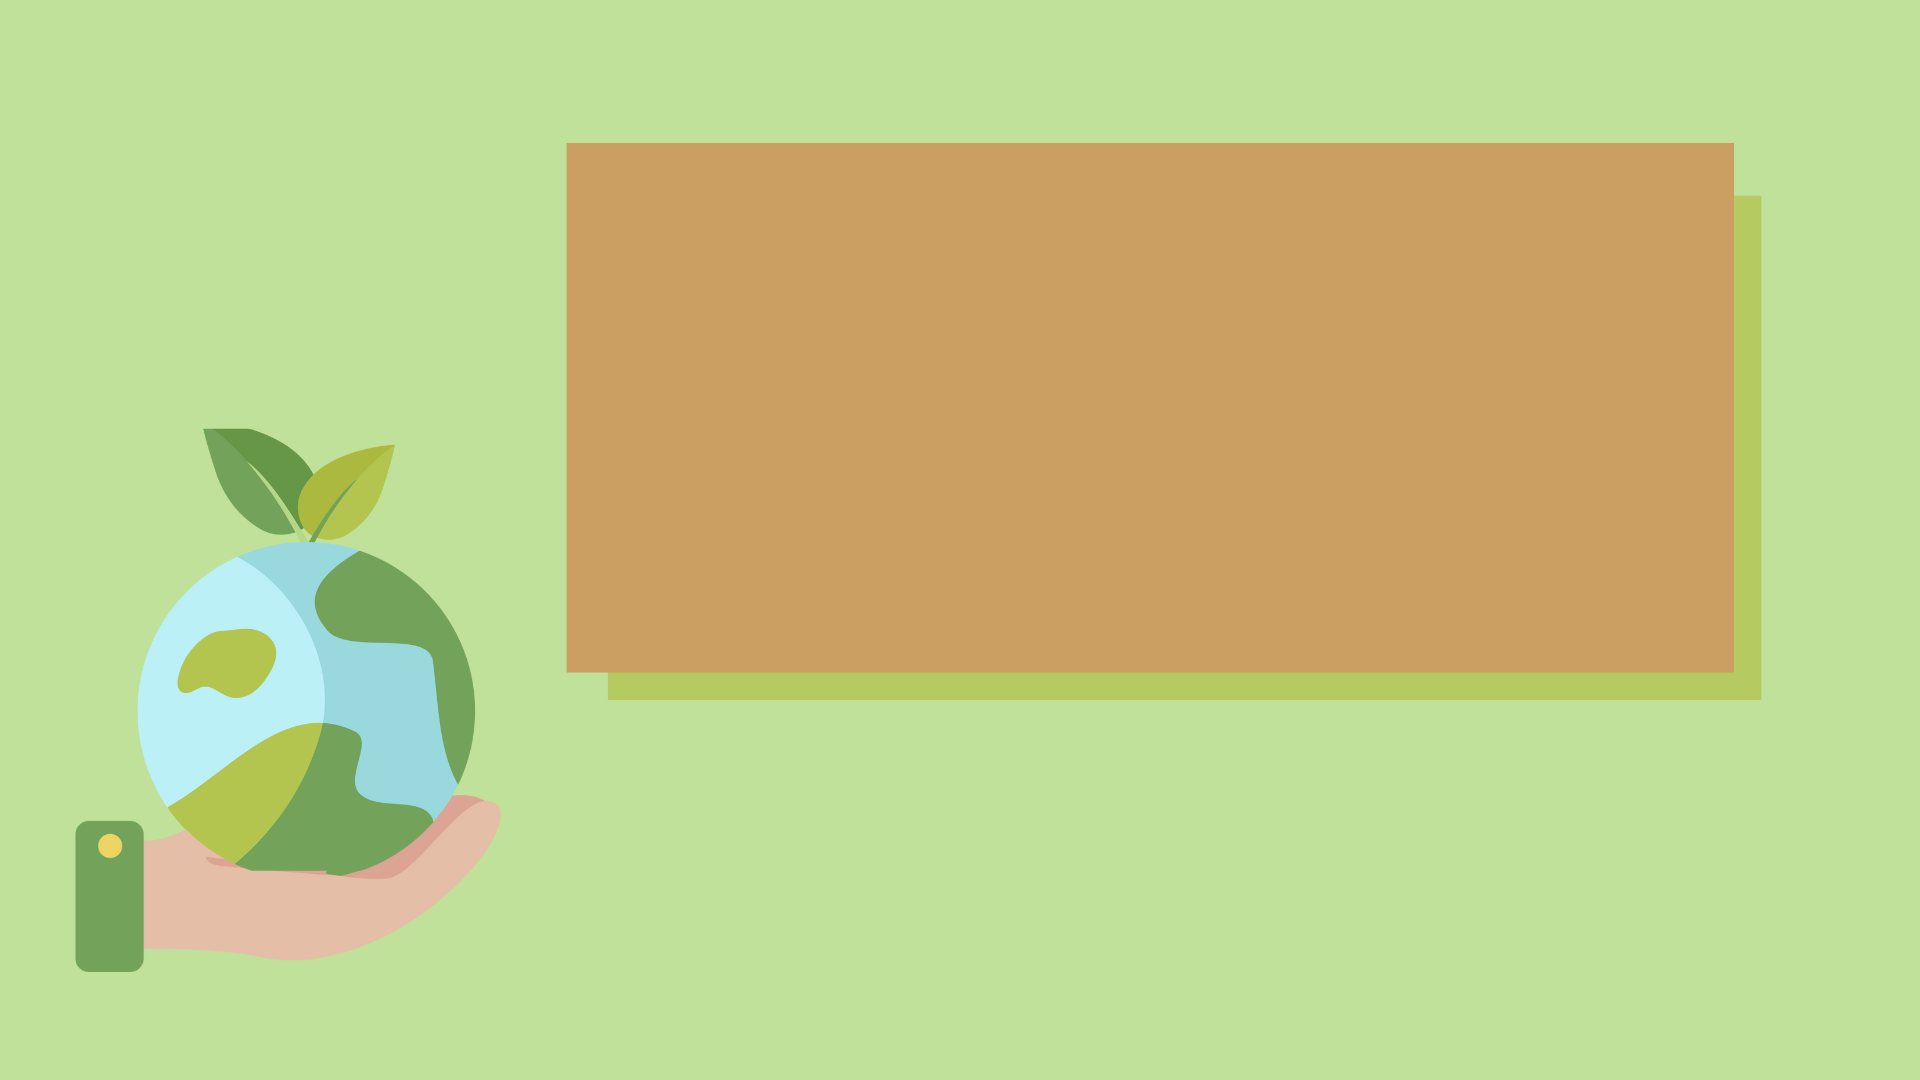
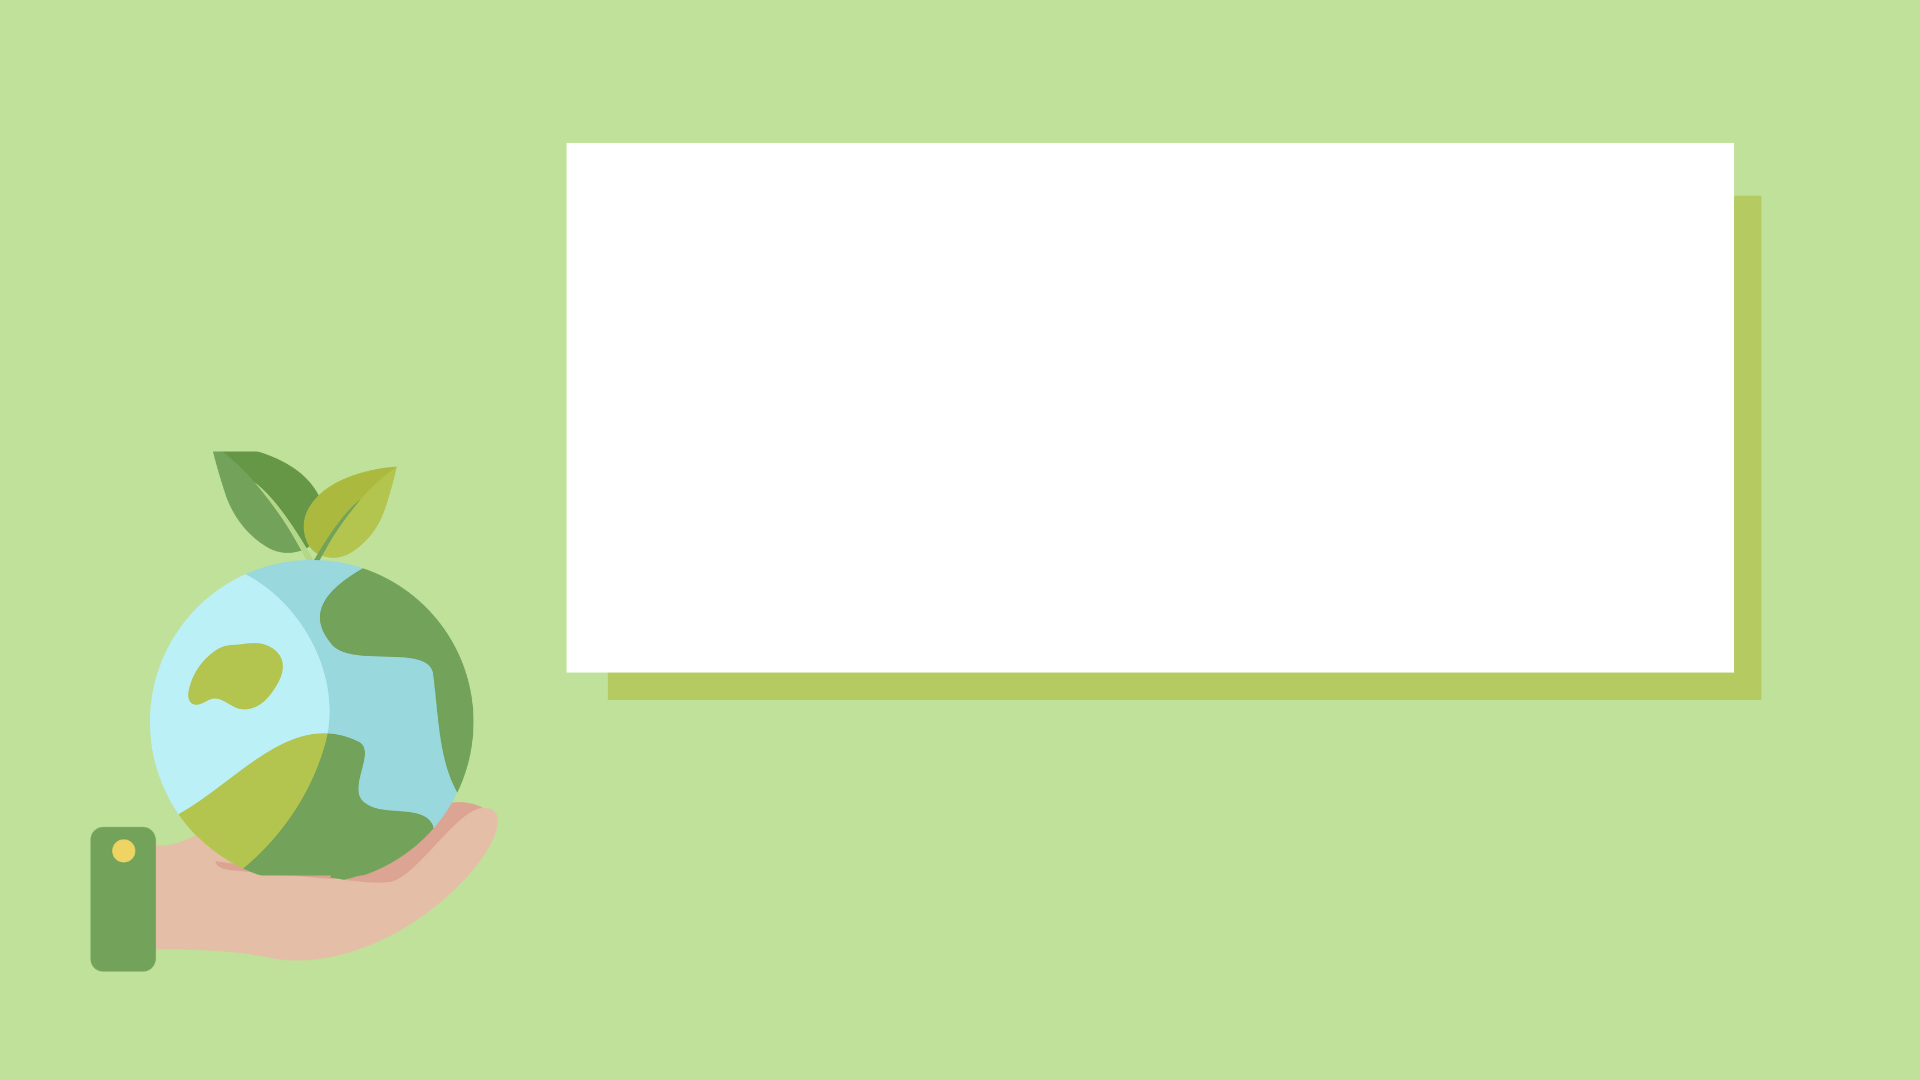
P1: Added graphics, rewrote some texts, included restart option.

diff --git a/projects/project1/js/script.js b/projects/project1/js/script.js
@@ -2,15 +2,24 @@
  * Project 1
  * Dorsa zare
  * 
- * Make title page pretty
- * Make ending pages Pretty
- * Organize sodes
- * Rewrite the texts 
+ 
+ * Organize codes
  * Fix offset for cleaning simulation
+  when restarting cant play the same game 
+ * fix plant drawing per frame
  * 
  * 
  */
+
 let state = "title";
+// Variables related to title
+let sadEarthImage;
+let titleTextImage;
+
+// Variables related to menu
+let cleanGarbageImage;
+let plantTreesImage;
+
 
 // Variables related to cleaning
 let cleaningBackground;
@@ -64,11 +73,17 @@ function preload() {
      // Load background images
     cleaningBackground = loadImage("assets/images/beach.png"); // Load the cleaning background image
     plantingBackground = loadImage("assets/images/garden.png"); // Load the planting background image
+
+     // Load title page images
+     sadEarthImage = loadImage("assets/images/sadearth.png") // Load the sad earth image
+     titleTextImage = loadImage("assets/images/titletext.png") // Load the title image
     
      // Load menu images
     image1 = loadImage("assets/images/optionone.png"); // Load the first image
     image2 = loadImage("assets/images/optiontwo.png"); // Load the second image
-   
+    cleanGarbageImage = loadImage("assets/images/cleangarbage.png"); // Load the clean garbage text image
+    plantTreesImage = loadImage("assets/images/planttrees.png"); // Load the plant trees text image
+
     // Load cleaning-related images
     cleaningInstructionImage = loadImage("assets/images/cleaninginstruction.png");
     startCleaningImage = loadImage("assets/images/startcleaning.png");
@@ -148,25 +163,26 @@ function draw() {
         drawTitleText();
         drawStartPrompt();
         checkKeyPressToMenu();
+        displayTitleImage();
       }
 
 
       function drawTitleText() {
-        push();
-        textSize(60);
-        fill(70, 110, 80);
-        textAlign(CENTER, CENTER);
-        text(" Save the environment! ", width / 2, height / 2 - 30);
-        pop();
+        image(titleTextImage, width /2 - 200 , height /2 - 250 ); 
       }
       
       function drawStartPrompt() {
         push();
-        textSize(25);
+        textSize(30);
         fill(255);
         textAlign(CENTER, CENTER);
-        text("Press Spacebar to start", width / 2, height / 2 + 80);
+        text("Press Spacebar to start", width / 2 + 140 , height / 2 + 130);
         pop();
+      }
+
+
+      function displayTitleImage() {
+        image(sadEarthImage, 60 , 230, 350, 350); 
       }
 
        function checkKeyPressToMenu() {
@@ -183,7 +199,7 @@ function draw() {
 
       function displayMenu() {
         displayMenuImages(); // Display menu options with images above
-        displayMenuOptions(); // Display menu options
+        displayMenuTitle(); // Display menu options
         displayMenuGuide (); // Display menu guide
         checkMenuSelection();  // Check for user input to select an option
       }
@@ -191,45 +207,24 @@ function draw() {
       function displayMenuImages() {
         image(image1, width / 2 - 300, height / 2 - 100, 200, 200);  // Load and display the first image above the left option
         image(image2, width / 2 + 100, height / 2 - 100, 200, 200); // Load and display the second image above the right option
+        textAlign(CENTER)
+        image(cleanGarbageImage, width / 2 - 470 , height / 2 - 10 , 500, 270 ); // Load and display the right option
+        image(plantTreesImage, width / 2 - 70 , height / 2 - 10 , 500, 270 ); // Load and display the right option
       }
 
-      function displayMenuOptions() {
-        let rectWidth = 260;
-        let rectHeight = 65;
-        let spacing = 130; // Spacing between the boxes
-        let leftX = width / 2 - rectWidth - spacing / 2;   // Calculate the x-coordinates for the left and right boxes
-        let rightX = width / 2 + spacing / 2;
-        let boxY = height / 2 + 120;  // Calculate the y-coordinate for the boxes (lower position)
-
-       displayMenueTitle ();
-
-        // Draw the left rectangle box
-        fill(255);
-        rect(leftX, boxY, rectWidth, rectHeight, 10);
-        // Draw the right rectangle box
-        rect(rightX, boxY, rectWidth, rectHeight, 10);
-        // Text for the left option
-        textSize(25);
-        fill(100, 130, 100);
-        textAlign(CENTER, CENTER);
-        text("1. Clean Garbage", leftX + rectWidth / 2, boxY + rectHeight / 2);
-        // Text for the right option
-        text("2. Plant Trees",  rightX + rectWidth / 2, boxY + rectHeight / 2);
-      }
-
-
-    function displayMenueTitle () {
+      function displayMenuTitle() {
         // Title
         textSize(35);
-        fill(255);
+        fill(50);
         textAlign(CENTER, CENTER);
         text("How are you going to save the environment today?", width / 2, height / 2 - 170);
-    }
+        }
+
 
     function displayMenuGuide () {
           // Guide
-          textSize(20);
-          fill(70, 110, 80);
+          textSize(25);
+          fill(255);
           textAlign(CENTER, CENTER);
           text("Press 1 or 2 on your keyboard to confirm your choice ", width / 2, height / 2 + 230);
       }
@@ -258,12 +253,14 @@ function draw() {
 
       
      function displayCleaningInstructions() {
-        textSize(30);
-        fill(70, 110, 80);
+        textSize(28);
+        fill(70);
         textAlign(CENTER, CENTER);
-        text(` Use your mouse to pick up each piece of
-        garbage you find on the beach and 
-        place it into the garbage bin.`, width / 2 + 120 , height / 2 - 50 );
+        text(` Use your mouse to click and drag each piece of 
+        garbage on the beach, then release it into the bin.
+         Your goal is to clean up the beach. 
+         When you've removed all the trash, 
+         you'll be making a positive impact on the environment.`, width / 2 + 120 , height / 2 - 50 );
     }
 
     function displayStartCleaningButton() {
@@ -368,10 +365,23 @@ function mouseReleased() {
 function cleaningEnding() {
     // Display the ending screen
     background(161, 199, 129);
-    textSize(30);
+    textSize(50);
     fill(255);
     textAlign(CENTER, CENTER);
-    text("Congratulations! You just learnt how to clean up the environment!", width / 2, height / 2);
+    text(`Congratulations!`, width / 2, height / 2 - 100 );
+
+    textSize(30);
+    fill(70);
+    text(`You've become a pro at cleaning up, right here in our virtual world.
+      Now, take those skills and make the real environment sparkle too!
+      You've got this!`, width / 2, height / 2 + 50);
+
+      fill(255);
+      text("Press 'R' to restart the game.", width / 2, height / 2 + 170);
+   
+      if (keyIsPressed && key === 'r') {
+          state = "title"; // Transition back to the title page
+      }
 }
 
 
@@ -389,11 +399,12 @@ function keyPressed() {
 
     //planting instructions
     textSize(30);
-    fill(255);
+    fill(70);
     textAlign(CENTER, CENTER);
-    text(` Use your mouse to pick up each piece of
-    garbage you find on the beach and 
-    place it into the garbage bin.`, width / 2 + 120 , height / 2 - 50 );
+    text(` Just click in the garden to plant your trees,
+     and they'll be watered automatically. 
+    Your mission is to create a thriving green space,
+     making the world a better place one tree at a time. `, width / 2 + 120 , height / 2 - 70 );
 
 
     // Text for the bottom
@@ -469,10 +480,25 @@ function planting() {
   }
 
   function plantingEnding () {
-       // Display the ending screen
-       background(161, 199, 129);
-       textSize(30);
-       fill(255);
-       textAlign(CENTER, CENTER);
-       text(" Did you know if you plant actual plants you can actually help the environment? ", width / 2, height / 2);
+ // Display the ending screen
+ background(161, 199, 129);
+ textSize(50);
+ fill(255);
+ textAlign(CENTER, CENTER);
+ text(`Congratulations!`, width / 2, height / 2 - 100 );
+
+ textSize(30);
+ fill(70);
+ text(` You've become a tree-planting pro right here in our virtual garden.
+  Now, take your skills and make the real world greener.
+  Get out there and plant some trees, as our planet could use your green touch!
+   `, width / 2, height / 2 + 50);
+
+
+   fill(255);
+   text("Press 'R' to restart the game.", width / 2, height / 2 + 150);
+
+   if (keyIsPressed && key === 'r') {
+       state = "title"; // Transition back to the title page
+   }
   }

diff --git a/projects/project1/index.html b/projects/project1/index.html
@@ -4,7 +4,7 @@
     <meta charset="utf-8">
     <meta name="viewport" width=device-width, initial-scale=1.0, maximum-scale=1.0, user-scalable=0>
 
-    <title>CHANGE THIS TITLE IN INDEX.HTML!</title>
+    <title> Save the Environment </title>
 
     <!-- CSS stylesheet(s) -->
     <link rel="stylesheet" type="text/css" href="css/style.css" />
